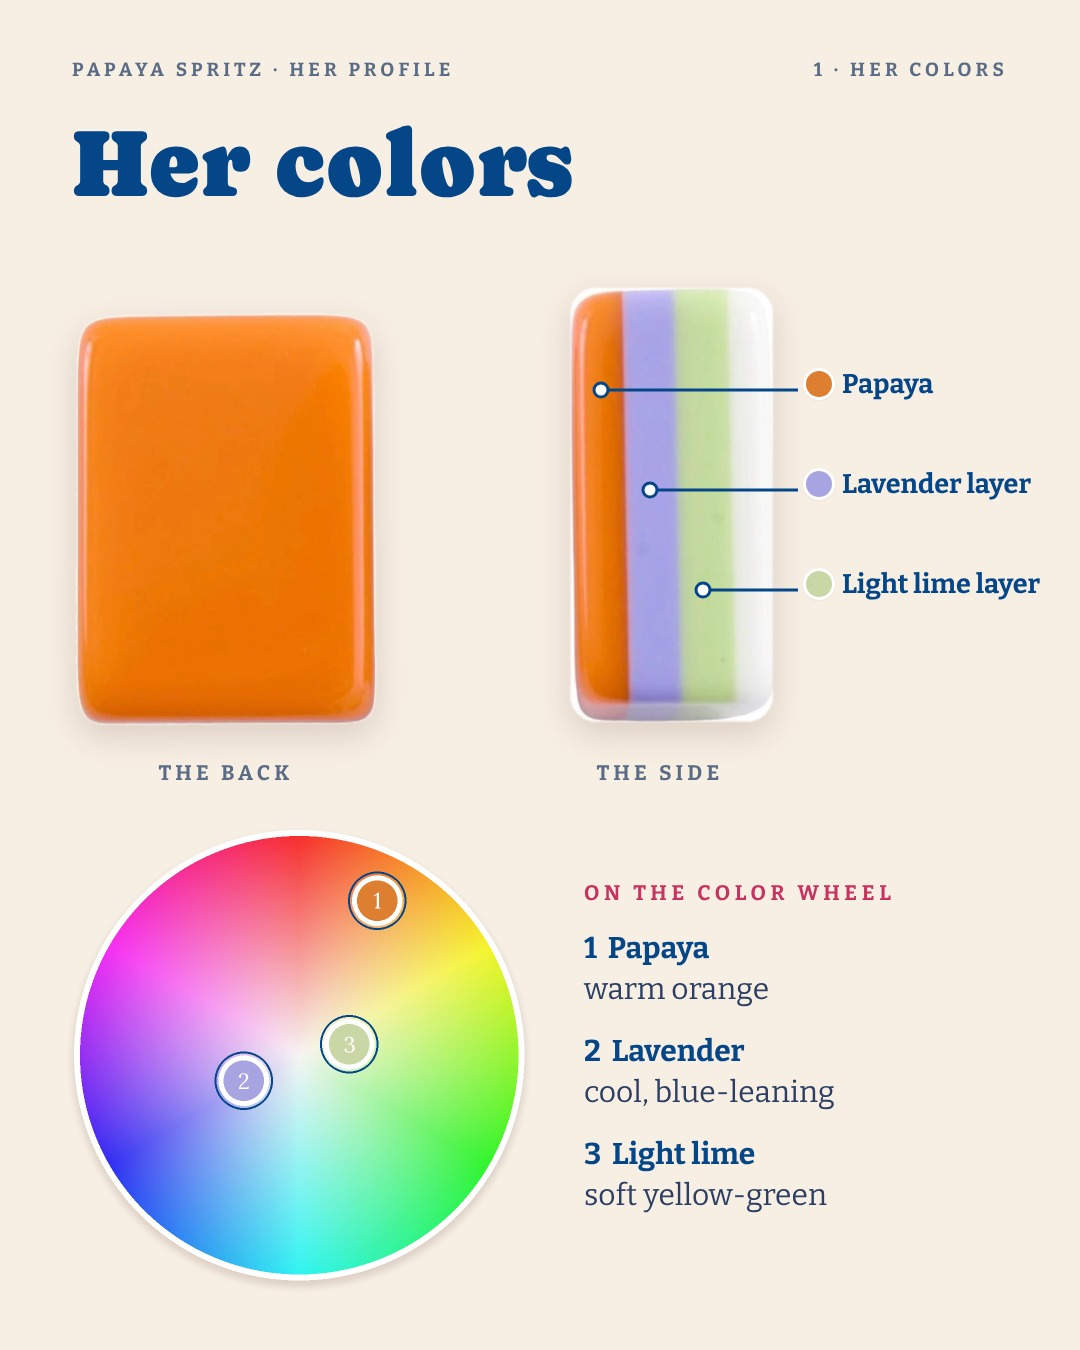
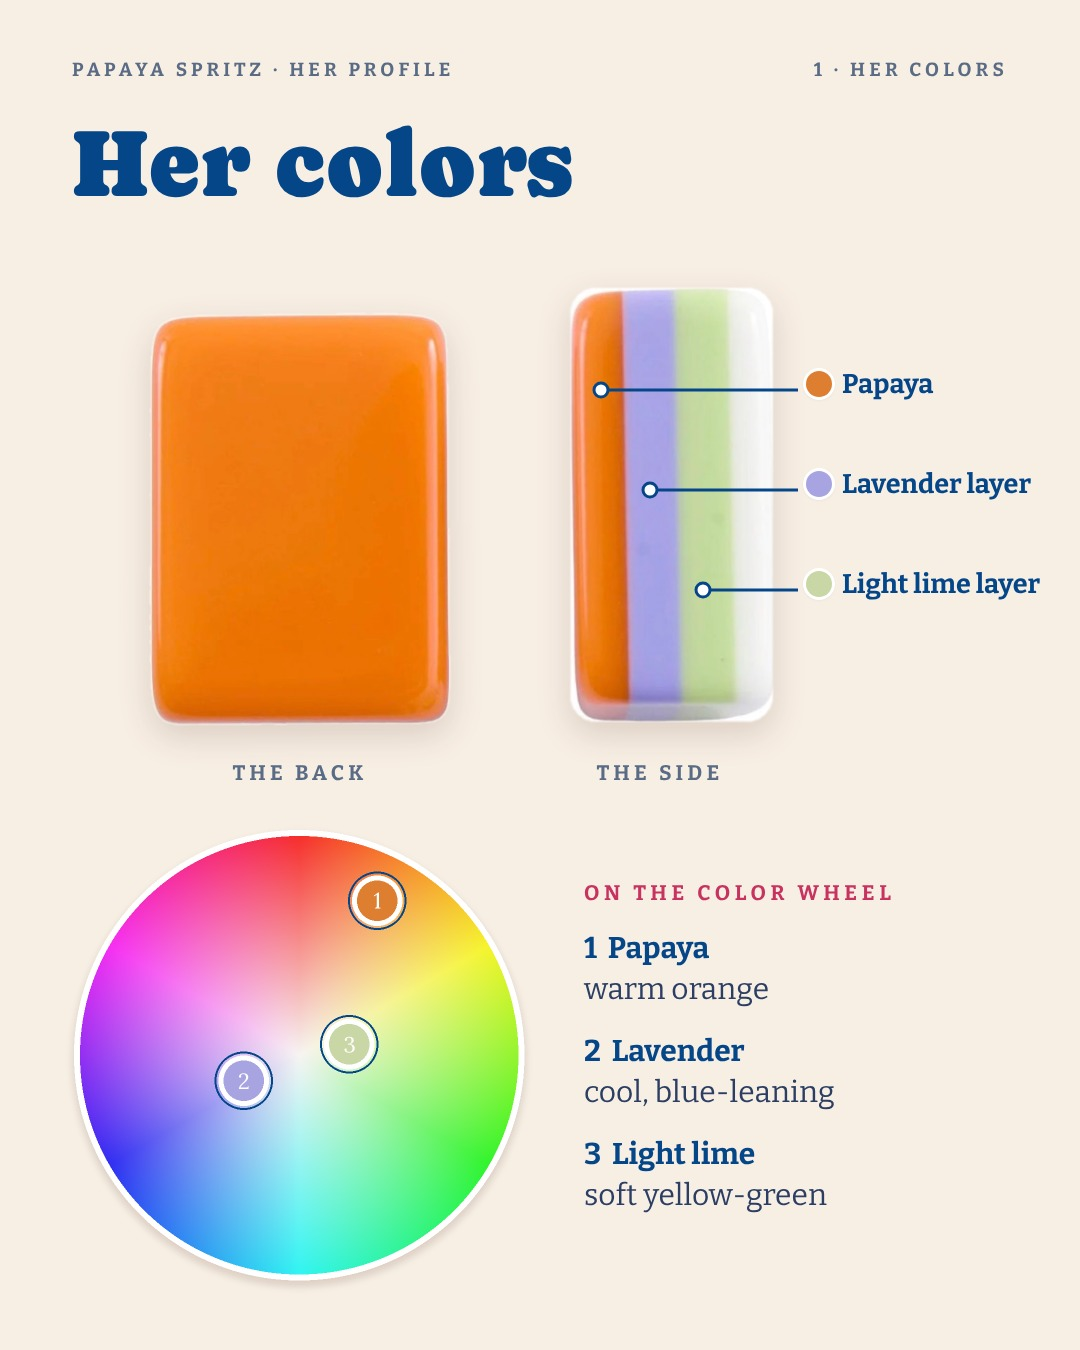
Papaya intro: back tile centered over the color wheel; caption updated to the final carousel
Claude-Session: https://claude.ai/code/session_014aKoC1ZMdZPjGkZ9kHhnLk

Changed region(s): [[0.1528, 0.2178, 0.4278, 0.5911], [0.0611, 0.2178, 0.1833, 0.56]]

diff --git a/assets/social/papaya-spritz-launch/html/intro-2.html b/assets/social/papaya-spritz-launch/html/intro-2.html
@@ -26,9 +26,10 @@ html,body{width:1080px;height:1350px;overflow:hidden;background:#f7eee4;color:#0
 <div style="position:relative;width:1080px;height:1350px">
 <div style="position:absolute;top:58px;left:72px;right:72px;display:flex;justify-content:space-between"><span class="caps" style="font-size:19px;color:#5a6b85">Papaya Spritz · her profile</span><span class="caps" style="font-size:19px;color:#5a6b85">1 · her colors</span></div>
 <div class="cap" style="position:absolute;top:118px;left:72px;font-size:96px">Her colors</div>
-<div style="position:absolute;left:60px;top:268px;width:740px;height:478px;filter:drop-shadow(0 12px 16px rgba(80,40,20,.16))"><div style="position:absolute;inset:0;background:url(file:///home/claude/mahjmatchmaker-data/assets/tiles/backs/papaya-spritz-back-and-side-omm-cutout.png) no-repeat;background-size:858px auto;background-position:-95px -114px"></div></div>
+<div style="position:absolute;left:134px;top:268px;width:740px;height:478px;filter:drop-shadow(0 12px 16px rgba(80,40,20,.16))"><div style="position:absolute;inset:0;clip-path:inset(0 380px 0 0);background:url(file:///home/claude/mahjmatchmaker-data/assets/tiles/backs/papaya-spritz-back-and-side-omm-cutout.png) no-repeat;background-size:858px auto;background-position:-95px -114px"></div></div>
+<div style="position:absolute;left:60px;top:268px;width:740px;height:478px;filter:drop-shadow(0 12px 16px rgba(80,40,20,.16))"><div style="position:absolute;inset:0;clip-path:inset(0 0 0 440px);background:url(file:///home/claude/mahjmatchmaker-data/assets/tiles/backs/papaya-spritz-back-and-side-omm-cutout.png) no-repeat;background-size:858px auto;background-position:-95px -114px"></div></div>
 <div style="position:absolute;left:806px;top:368px;display:flex;align-items:center;gap:10px;font:700 27px Bit;color:var(--navy);white-space:nowrap"><i style="width:26px;height:26px;border-radius:50%;background:#de7e30;box-shadow:0 0 0 3px #fff,0 1px 4px rgba(5,40,90,.25)"></i>Papaya</div><svg style="position:absolute;left:0;top:0" width="1080" height="1350"><line x1="601" y1="390" x2="798" y2="390" stroke="#054689" stroke-width="3"/><circle cx="601" cy="390" r="7" fill="#fff" stroke="#054689" stroke-width="3"/></svg><div style="position:absolute;left:806px;top:468px;display:flex;align-items:center;gap:10px;font:700 27px Bit;color:var(--navy);white-space:nowrap"><i style="width:26px;height:26px;border-radius:50%;background:#a8a3e1;box-shadow:0 0 0 3px #fff,0 1px 4px rgba(5,40,90,.25)"></i>Lavender layer</div><svg style="position:absolute;left:0;top:0" width="1080" height="1350"><line x1="650" y1="490" x2="798" y2="490" stroke="#054689" stroke-width="3"/><circle cx="650" cy="490" r="7" fill="#fff" stroke="#054689" stroke-width="3"/></svg><div style="position:absolute;left:806px;top:568px;display:flex;align-items:center;gap:10px;font:700 27px Bit;color:var(--navy);white-space:nowrap"><i style="width:26px;height:26px;border-radius:50%;background:#c8d7a5;box-shadow:0 0 0 3px #fff,0 1px 4px rgba(5,40,90,.25)"></i>Light lime layer</div><svg style="position:absolute;left:0;top:0" width="1080" height="1350"><line x1="703" y1="590" x2="798" y2="590" stroke="#054689" stroke-width="3"/><circle cx="703" cy="590" r="7" fill="#fff" stroke="#054689" stroke-width="3"/></svg>
-<div style="position:absolute;left:79px;width:294px;top:760px;text-align:center;font:700 21px Bit;letter-spacing:.2em;text-transform:uppercase;color:#5a6b85">the back</div><div style="position:absolute;left:560px;width:200px;top:760px;text-align:center;font:700 21px Bit;letter-spacing:.2em;text-transform:uppercase;color:#5a6b85">the side</div>
+<div style="position:absolute;left:153px;width:294px;top:760px;text-align:center;font:700 21px Bit;letter-spacing:.2em;text-transform:uppercase;color:#5a6b85">the back</div><div style="position:absolute;left:560px;width:200px;top:760px;text-align:center;font:700 21px Bit;letter-spacing:.2em;text-transform:uppercase;color:#5a6b85">the side</div>
 <img src="file:///home/claude/mahjmatchmaker-data/assets/colorwheels/papaya-spritz-color-wheel-mini.png" style="position:absolute;left:44px;top:800px;width:510px;height:510px">
 <div style="position:absolute;left:584px;top:880px;right:56px">
  <div class="caps" style="font-size:21px;color:var(--pink)">On the color wheel</div>

diff --git a/scripts/social/tileprofile/intro.py b/scripts/social/tileprofile/intro.py
@@ -51,6 +51,7 @@ bk = {b[0].lower(): b[1] for b in P['her_colors']['backs']}
 cpap, clav, clime = bk.get('papaya', '#de7e30'), bk.get('lavender', '#a8a3e1'), bk.get('light lime', '#c8d7a5')
 faces = ''.join(f'<span style="display:inline-flex;align-items:center;gap:10px"><i style="width:26px;height:26px;border-radius:50%;background:{h};box-shadow:0 0 0 3px #fff,0 1px 4px rgba(5,40,90,.2)"></i>{e(n.title())}</span>' for n, h in P['her_colors']['faces'])
 WHEEL = url(f'assets/colorwheels/{key}-color-wheel-mini.png')
+BACK_NUDGE = 74  # Tiffany Oct 19: center the back tile over the color wheel
 def lab(y, txt, col, x2):
     return (f'<div style="position:absolute;left:806px;top:{y-22}px;display:flex;align-items:center;gap:10px;font:700 27px Bit;color:var(--navy);white-space:nowrap">'
             f'<i style="width:26px;height:26px;border-radius:50%;background:{col};box-shadow:0 0 0 3px #fff,0 1px 4px rgba(5,40,90,.25)"></i>{txt}</div>'
@@ -59,9 +60,10 @@ colors = f"""<!doctype html><html><head><meta charset=utf8><style>{css(1080, 135
 <div style="position:relative;width:1080px;height:1350px">
 <div style="position:absolute;top:58px;left:72px;right:72px;display:flex;justify-content:space-between"><span class="caps" style="font-size:19px;color:#5a6b85">{e(P['name'])} · her profile</span><span class="caps" style="font-size:19px;color:#5a6b85">1 · her colors</span></div>
 <div class="cap" style="position:absolute;top:118px;left:72px;font-size:96px">Her colors</div>
-<div style="position:absolute;left:60px;top:268px;width:740px;height:478px;filter:drop-shadow(0 12px 16px rgba(80,40,20,.16))"><div style="position:absolute;inset:0;background:url({url(BACK_CUT)}) no-repeat;background-size:858px auto;background-position:-95px -114px"></div></div>
+<div style="position:absolute;left:{60 + BACK_NUDGE}px;top:268px;width:740px;height:478px;filter:drop-shadow(0 12px 16px rgba(80,40,20,.16))"><div style="position:absolute;inset:0;clip-path:inset(0 {740 - 360}px 0 0);background:url({url(BACK_CUT)}) no-repeat;background-size:858px auto;background-position:-95px -114px"></div></div>
+<div style="position:absolute;left:60px;top:268px;width:740px;height:478px;filter:drop-shadow(0 12px 16px rgba(80,40,20,.16))"><div style="position:absolute;inset:0;clip-path:inset(0 0 0 440px);background:url({url(BACK_CUT)}) no-repeat;background-size:858px auto;background-position:-95px -114px"></div></div>
 {lab(390, 'Papaya', cpap, 601)}{lab(490, 'Lavender layer', clav, 650)}{lab(590, 'Light lime layer', clime, 703)}
-<div style="position:absolute;left:79px;width:294px;top:760px;text-align:center;font:700 21px Bit;letter-spacing:.2em;text-transform:uppercase;color:#5a6b85">the back</div><div style="position:absolute;left:560px;width:200px;top:760px;text-align:center;font:700 21px Bit;letter-spacing:.2em;text-transform:uppercase;color:#5a6b85">the side</div>
+<div style="position:absolute;left:{79 + BACK_NUDGE}px;width:294px;top:760px;text-align:center;font:700 21px Bit;letter-spacing:.2em;text-transform:uppercase;color:#5a6b85">the back</div><div style="position:absolute;left:560px;width:200px;top:760px;text-align:center;font:700 21px Bit;letter-spacing:.2em;text-transform:uppercase;color:#5a6b85">the side</div>
 <img src="{WHEEL}" style="position:absolute;left:44px;top:800px;width:510px;height:510px">
 <div style="position:absolute;left:584px;top:880px;right:56px">
  <div class="caps" style="font-size:21px;color:var(--pink)">On the color wheel</div>
